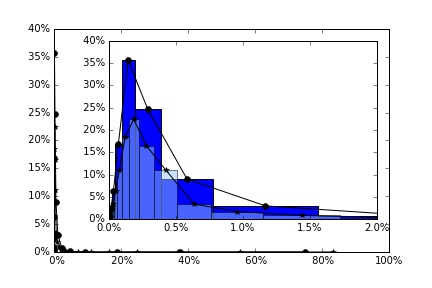
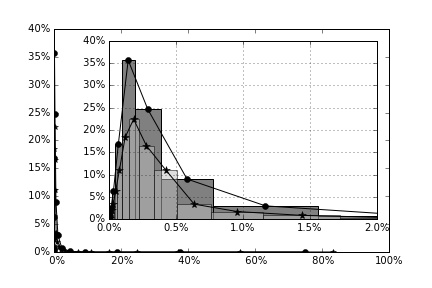
foto

diff --git a/3.py b/3.py
@@ -39,11 +39,14 @@ def calculate_data(df):
 _ = calculate_data(auto1)
 _ = calculate_data(auto2)
 #%%
-plt.style.use("seaborn-pastel")
+#plt.style.use("seaborn-pastel")
+plt.style.use("grayscale")
+
 
 fig, ax = plt.subplots()
 
 fig.set_facecolor("w")
+fig.set_frameon(True)
 
 #plt.scatter(auto1.cena_relative, auto1.num_relative, marker = "v", color="k" )
 ax.plot(auto1.cena_relative, auto1.num_relative, marker = "*", color="k" )
@@ -68,13 +71,13 @@ ax.set_xticklabels(['{:3.0f}%'.format(x) for x in x_vals])
 ax2 = mpl_il.inset_axes(plt.gca(), width='80%', height='80%', loc=1, borderpad = 1)
 
 ax2.plot(auto2.cena_relative, auto2.num_relative, marker = "o", color="k" )
-ax2.plot(auto1.cena_relative, auto1.num_relative, marker = "*", color="k" )
+ax2.plot(auto1.cena_relative, auto1.num_relative, marker = "*", color="k" , ms =8)
 
 
 ax2.set_xlim(0,2)
 ax2.set_ylim(0,40)
-#bar2 = ax2.bar(left = auto2.cena_relative_left, width = auto2.cena_relative_weight, height = auto2.num_relative, color = "b")
-#bar1 = ax2.bar(left = auto1.cena_relative_left, width = auto1.cena_relative_weight, height = auto1.num_relative, alpha=0.5)
+bar2 = ax2.bar(left = auto2.cena_relative_left, width = auto2.cena_relative_weight, height = auto2.num_relative, color = (0.5,0.5,0.5))
+bar1 = ax2.bar(left = auto1.cena_relative_left, width = auto1.cena_relative_weight, height = auto1.num_relative,color = (0.75,0.75,0.75), alpha=0.5)
 
 
 y_vals = ax2.get_yticks()
@@ -88,10 +91,14 @@ ax2.set_xticklabels(['{:3.1f}%'.format(x) for x in x_vals])
 
 #mark_inset(ax,ax2,loc1 = 2, loc2 = 3, fc = "none")
 ax.grid(b="off",axis ="both")
+#ax.semilogx()
 #plt.xscale("log")
-ax2.grid(b="off",axis ="both")
+ax2.grid(b="on",axis ="both")
 #.xscale("log")
-plt.savefig("3.jpg")
+
+
+plt.savefig("2.jpg")
+plt.savefig("2.png")
 #%%
 #plt.figure()
 #plt.bar(np.arange(10), height = np.arange(10))
